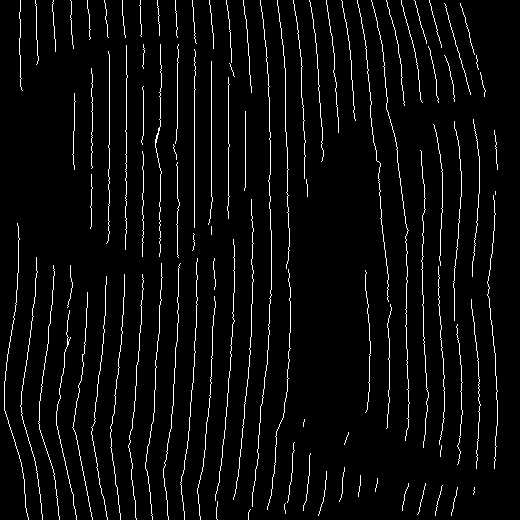
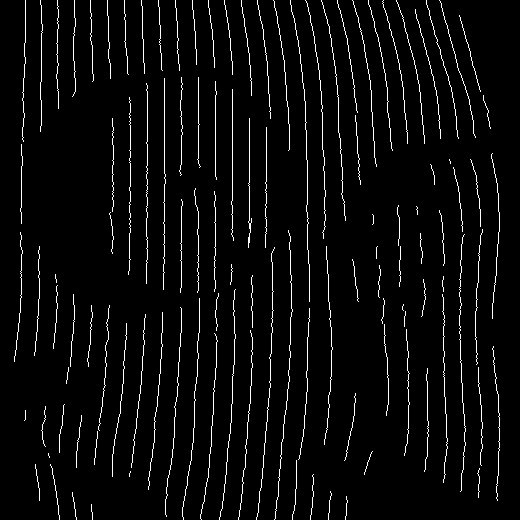
show the range of stride (semi-transparent) on image during dragging

diff --git a/main.py b/main.py
@@ -347,11 +347,21 @@ if __name__=="__main__":
             roi_top_left = (max(x - roi_dim // 2, 0), max(y - roi_dim // 2, 0))
             roi_bottom_right = (min(x + roi_dim // 2, image.shape[1]), min(y + roi_dim // 2, image.shape[0]))
             temp_image = add_semi_transparent_rectangle(temp_image, roi_top_left, roi_bottom_right, (0, 255, 0), 0.3)
+
+            # Show stride range
+            overlay = temp_image.copy()
+            # Draw a circle
+            cv2.circle(overlay, (x, y), stride, (0, 255, 255), -1)  # Drawing the circle on the overlay
+            # Alpha value controls the transparency level (between 0 and 1)
+            alpha = 0.4
+            cv2.addWeighted(overlay, alpha, temp_image, 1-alpha, 0, temp_image)
+
             # Show all endpoints in rectangle with red color when dragging
             for (_px, _py) in local_endpoints:
                 px, py = local2global((_px, _py), (x,y), roi_dim, image.shape[:2])
                 # highlight size: 2
                 cv2.circle(temp_image, (px, py), radius=2, color=(0, 0, 255), thickness=-1)  # -1 fills the circle
+                
 
             if n_x==x and n_y==y: # same point
                 # print(f"\r[INFO] Position: {x},{y}")
